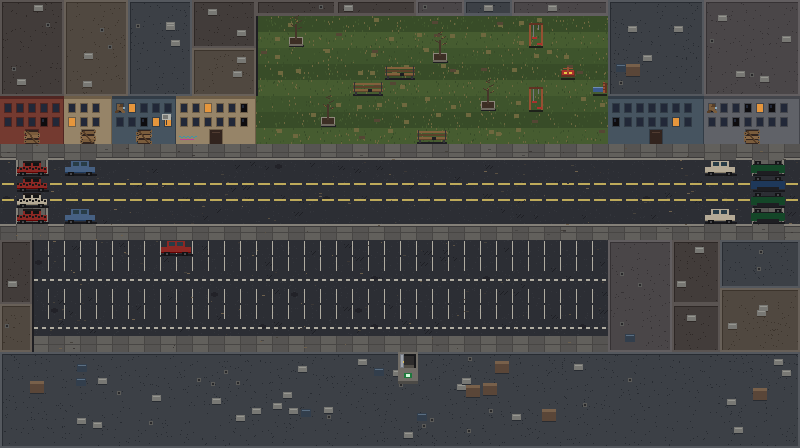
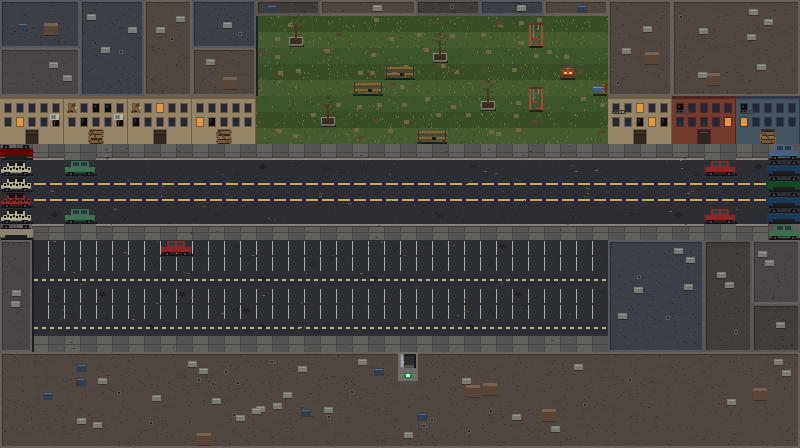
fix: il tamponamento chiude la strada anche sui marciapiedi
I relitti bloccavano solo le quattro corsie: restavano aperti il bordo
esterno della carreggiata e tutti e due i marciapiedi, e bastava
camminare lungo il marciapiede per passare oltre. Adesso il tamponamento
va da una facciata all'altra, sei macchine per lato dal muro al tetto, e
un flood fill dalla porta antincendio non tocca piu i bordi della mappa.

Sistemato anche il fondo sotto i relitti: una macchina ferma in corsia
esterna ha il cordolo lungo tutto un fianco e solo la corsia alle due
estremita, quindi il voto degli otto vicini la posava sul marciapiede.
Ora `surface` legge la riga su cui sta la macchina, fermandosi al primo
muro, e lascia decidere ai vicini solo chi sta proprio sul filo del
cordolo o chi ha la riga non pavimentata. Oltre alle otto macchine di
questa strada ne guadagnano la fontana della piazza nord, lo scafo sugli
scali del cantiere e due relitti ribaltati.

diff --git a/lib/core/levels/tutorial/mall_north_street.dart b/lib/core/levels/tutorial/mall_north_street.dart
@@ -3,11 +3,13 @@
 /// Reached only through the hypermarket ground floor's new fire exit (see
 /// mall.dart): the loading side of the building, a street closed off on
 /// its own to the rest of the north district. The fire door stands in the
-/// southern roofline, two rows of parking stalls in front of it, a
-/// wrecked-car pile-up blocks the road as it continues off-map east and
-/// west, and beyond it a park has gone to seed between the north-side
-/// palazzi. The palazzi on the right also narrow the car park and keep that
-/// part of the block inaccessible.
+/// southern roofline, two rows of parking stalls in front of it, and
+/// beyond it a park has gone to seed between the north-side palazzi. Where
+/// the road would carry on off-map east and west a wrecked-car pile-up
+/// walls it off from house front to house front: four lanes of wrecks with
+/// one more shunted up on each pavement, so there is no way round on foot.
+/// The palazzi on the right also narrow the car park and keep that part of
+/// the block inaccessible.
 /// New glyphs, on top of the outdoor legend in street.dart: `g` grass, floor;
 /// `p` broken playground equipment, an obstacle; `j` the fire door in the
 /// rear wall, stepped onto to go back inside, floor.
@@ -22,12 +24,12 @@ const List<String> mallNorthStreetRows = <String>[
   'HHHHHHHHHHHHHHHHggggggggggggggAggpggggHHHHHHHHHHHH',
   'HHHHHHHHHHHHHHHHggggAgggggggggggggggggHHHHHHHHHHHH',
   'HHHHHHHHHHHHHHHHggggggggggnnggggggggggHHHHHHHHHHHH',
-  '==================================================',
-  '.XX.CC......................................CC.UU.',
-  '-XX--------------------------------------------UU-',
-  '-XX--------------------------------------------UU-',
-  '.XX.CC......................................CC.UU.',
-  '==================================================',
+  'UU==============================================CC',
+  'XX..CC......................................CC..UU',
+  'XX----------------------------------------------UU',
+  'XX----------------------------------------------UU',
+  'XX..CC......................................CC..UU',
+  'UU==============================================CC',
   'BBLLLLLLLLCCLLLLLLLLLLLLLLLLLLLLLLLLLLBBBBBBBBBBBB',
   'BBLLLLLLLLLLLLLLLLLLLLLLLLLLLLLLLLLLLLBBBBBBBBBBBB',
   'BBLLLLLLLLLLLLLLLLLLLLLLLLLLLLLLLLLLLLBBBBBBBBBBBB',

diff --git a/test/tutorial_level_test.dart b/test/tutorial_level_test.dart
@@ -23,14 +23,14 @@ void main() {
     final width = mallNorthStreetRows.first.length;
     final roadRows = mallNorthStreetRows.where((row) => row.contains('-'));
     expect(
-      roadRows.every((row) => row.startsWith('-') && row.endsWith('-')),
+      roadRows.every((row) => !row.contains(RegExp('[BHfKMGW#%]'))),
       isTrue,
-      reason: 'the road continues past both edges of the map',
+      reason: 'nothing built closes the road: it runs past both map edges',
     );
     expect(
-      roadRows.every((row) => row.contains('XX') && row.contains('UU')),
+      roadRows.every((row) => row.startsWith('XX') && row.endsWith('UU')),
       isTrue,
-      reason: 'wrecks block both off-map directions',
+      reason: 'wrecks, not walls, block both off-map directions',
     );
 
     final facadeRows = mallNorthStreetRows
@@ -53,6 +53,23 @@ void main() {
       lessThan(width - 10),
       reason: 'right-side palazzi narrow the car park',
     );
+  });
+
+  test('the pile-up closes the street behind the mall, pavements and all', () {
+    final world = createTutorialWorld();
+    final street = place(PlaceId.mallNorthStreet);
+    final reached = world.map.floodFillDistances(
+      mallNorthStreetEntry,
+      maxDistance: street.width * street.height,
+    );
+    expect(reached.length, greaterThan(street.width), reason: 'sanity check');
+    for (final tile in reached.keys) {
+      expect(
+        tile.x,
+        inExclusiveRange(street.bounds.left + 1, street.bounds.right - 1),
+        reason: 'the wrecks reach the map edge, so the pavement is no way out',
+      );
+    }
   });
 
   test('the player starts unarmed with no bullets', () {

diff --git a/tools/build_street_level.py b/tools/build_street_level.py
@@ -209,16 +209,47 @@ class Level:
     def is_building(self, x, y) -> bool:
         return self.at(x, y) in BUILDING_GLYPHS
 
-    def surface(self, x: int, y: int) -> str:
-        """Floor under a prop or actor: the most common floor around it
-        (`=` sidewalk, `.` road, `P` paving, `L` parking, `Y` stairs)."""
-        glyph = self.at(x, y)
+    @staticmethod
+    def _floor(glyph: str) -> str | None:
+        """The floor `glyph` paves, if it paves one."""
         if glyph in WALK_GLYPHS:
             return "="
         if glyph in ROAD_GLYPHS:
             return "."
         if glyph in "PLY,":
             return glyph
+        return None
+
+    def _floor_along(self, x: int, y: int, step: int) -> str | None:
+        """The nearest floor along row `y` from `x`, never looking through
+        a wall: a prop is paved with the street it stands in, not with
+        whatever lies on the far side of the building next to it."""
+        nx = x + step
+        while 0 <= nx < self.width and not self.is_building(nx, y):
+            floor = self._floor(self.rows[y][nx])
+            if floor is not None:
+                return floor
+            nx += step
+        return None
+
+    def surface(self, x: int, y: int) -> str:
+        """Floor under a prop or actor (`=` sidewalk, `.` road, `P` paving,
+        `L` parking, `Y` stairs): what its own row is paved with, taken
+        from the nearest tile either side of it that says. A car in the
+        outside lane has the kerb running along one whole side of it and
+        only the lane it blocks at its ends, so counting the neighbours
+        around it used to pave it with the sidewalk. The neighbours still
+        settle a prop on the kerb line itself, road one side and sidewalk
+        the other, and one whose row is paved nowhere."""
+        glyph = self.at(x, y)
+        floor = self._floor(glyph)
+        if floor is not None:
+            return floor
+        sides = {side for side in (self._floor_along(x, y, -1),
+                                   self._floor_along(x, y, 1))
+                 if side is not None}
+        if len(sides) == 1:
+            return sides.pop()
         votes = {"=": 0, ".": 0, "P": 0, "L": 0, "Y": 0, ",": 0}
         for dx in (-1, 0, 1):
             for dy in (-1, 0, 1):
@@ -229,7 +260,7 @@ class Level:
                     votes["."] += 1 + (dy == 0)
                 elif g in "PLY,":
                     votes[g] += 1 + (dy == 0)
-        return max(votes, key=votes.get)
+        return max(sides or votes, key=votes.get)
 
 
 def column_runs(level: Level, glyphs: set[str]):
